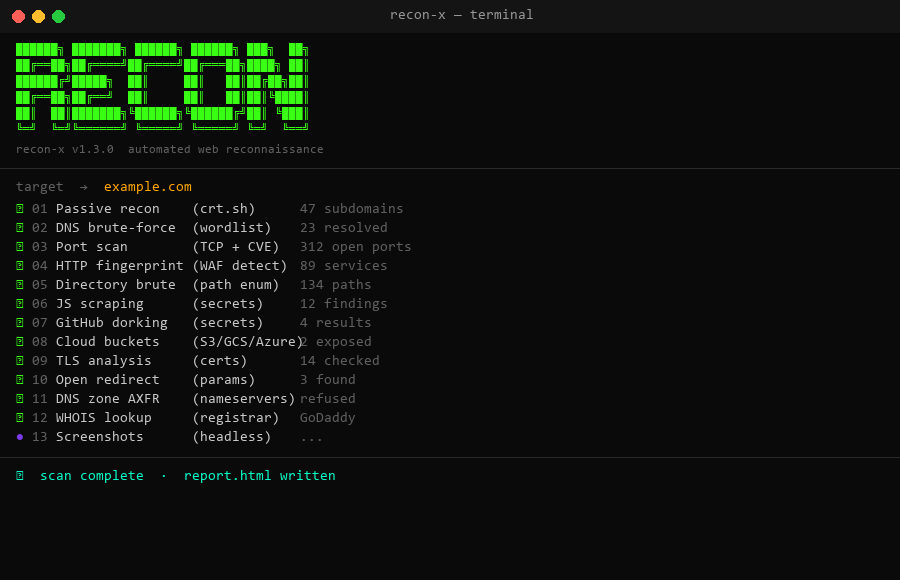
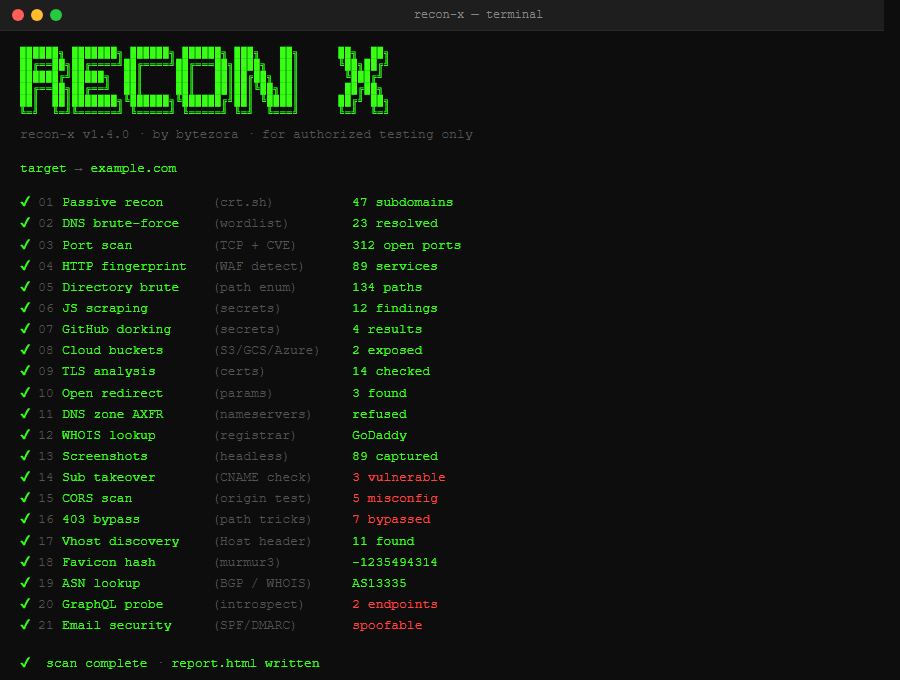
docs: update screenshots to v1.4.0 with all 21 steps, update README module list

diff --git a/README.md b/README.md
@@ -62,6 +62,14 @@ recon-x -target example.com -github-token ghp_xxxx
 11. DNS zone transfer (AXFR) → full zone leak attempt
 12. WHOIS lookup → registrar, org, country, dates
 13. HTTP screenshots → headless browser, embedded in report
+14. Subdomain takeover → CNAME dangling DNS check
+15. CORS scan → origin reflection, wildcard+credentials
+16. 403 bypass → path tricks, header injection
+17. Virtual host discovery → Host header bruteforce
+18. Favicon hash → Shodan MurmurHash3 fingerprint
+19. ASN lookup → BGP prefix, org, country
+20. GraphQL probe → endpoint discovery, introspection dump
+21. Email security → SPF / DMARC / DKIM, spoofability
     → self-contained HTML report + optional JSON
 ```
 
@@ -75,7 +83,7 @@ recon-x -target example.com -github-token ghp_xxxx
 
 ## Report
 
-Self-contained HTML, dark terminal style. Tabbed — subdomains, ports, HTTP, CVE, WAF, dirs, JS secrets, GitHub leaks, cloud buckets, TLS, open redirects, AXFR, WHOIS, screenshots.
+Self-contained HTML, dark terminal style. Tabbed — subdomains, ports, HTTP, CVE, WAF, dirs, JS secrets, GitHub leaks, cloud buckets, TLS, open redirects, AXFR, WHOIS, screenshots, takeover, CORS, 403 bypass, vhosts, favicon, ASN, GraphQL, email security.
 
 ![Report](assets/report.png)
 
